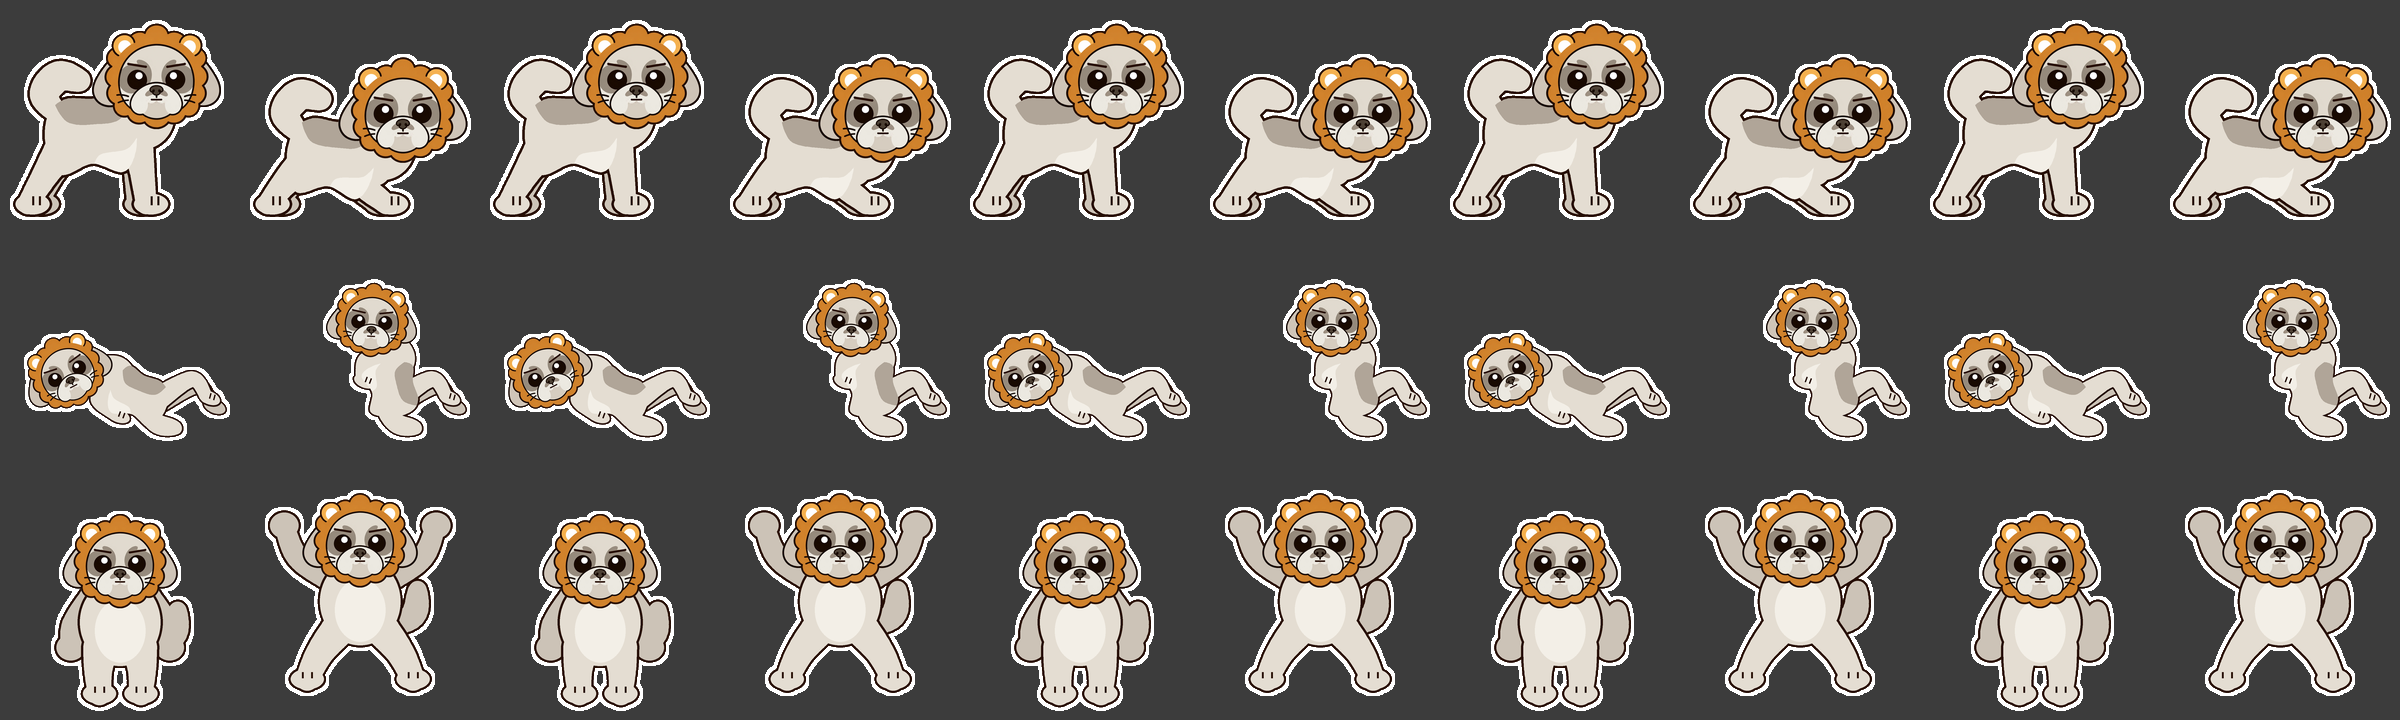
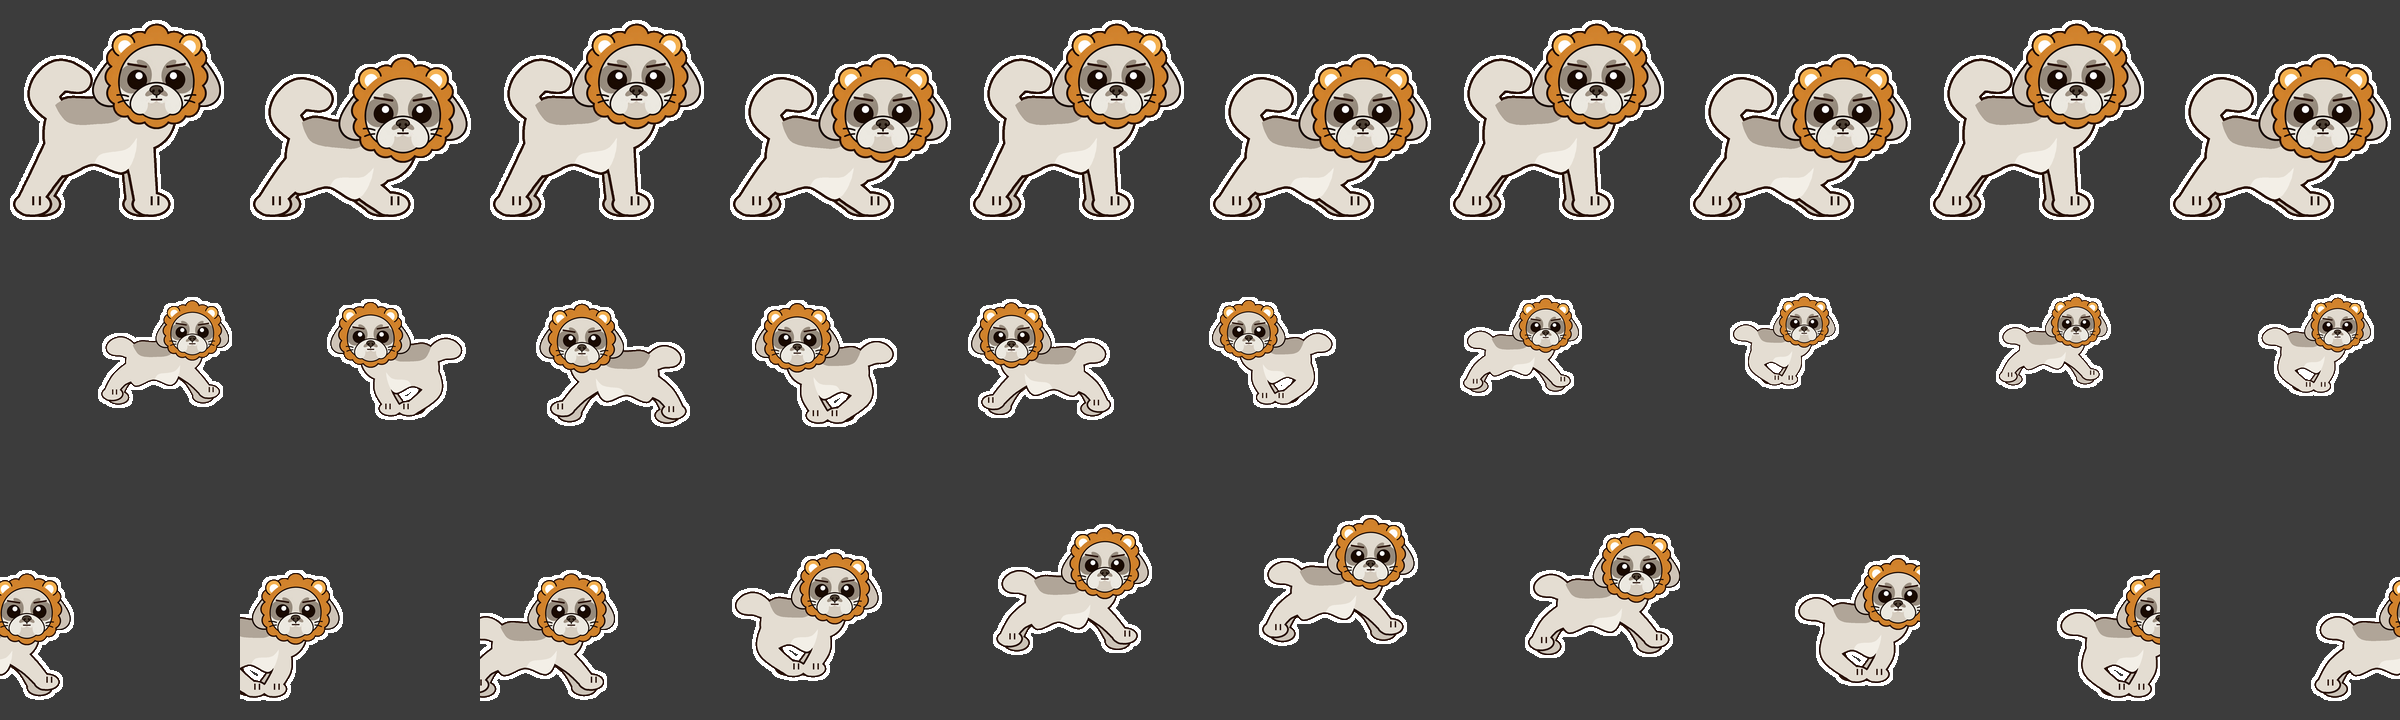
Replace sit-ups and jumping jacks with arc running and a running jump
Claude-Session: https://claude.ai/code/session_01KX3WDfyPkAofSs6dqvGAmw

diff --git a/.claude/skills/stamp-create/SKILL.md b/.claude/skills/stamp-create/SKILL.md
@@ -126,6 +126,9 @@ print(ms.verify("assets/gif/名前.gif"))                     # 検証
   - 斜め上から：**体だけ**を `Image.QUAD`（奥を狭く手前を広く）＋縦0.84倍＋-20度回転で変形し、頭の位置は目印の点を同じ変形にかけて求め、**顔は変形せずに**その位置へ乗せる（顔をゆがませない）
   - 正面から：胴体（胸）は丸い楕円＋明るい胸毛、前足2本は胸から真下へ太く、奥に後ろ足の太もも・後ろ足・しっぽを少し暗い色でまとめて描く。腰を落とすと胴体が下がり、太ももが両脇に大きく張り出して「おすわり」に見える。手前（胸＋前足）は1つの形にまとめて輪郭を1回だけ付ける
   - ジャンピングジャック（正面から）：後ろ足で立った犬。前足は胴体の**後ろ**に少し暗い色で描き（胴体との境目に線を作らない）、t=1 でジャンプ（体を90px上げる）しながら前足を斜め上へ広げ、後ろ足を左右に開く。胴体＋後ろ足は1つの形
+- **走る・移動する場面**：走る姿勢2つ（脚を前後に伸ばす／体の下に集める）を `dog_unified` で描いて**絵の部分だけ切り出し**、コマごとに位置・大きさ・左右の向きを変えて貼る。
+  - 弧を描いて走り回る（斜め上から）：楕円の道（横半径300・縦半径130）を10コマで1周。手前ほど大きく（0.8〜1.1倍）、進む向きに合わせて左右反転。切り抜きは全コマが入る範囲（`ms.auto_crop`）
+  - 左から走ってジャンプ（横から）：切り抜きは固定にして、左端から入って右へ抜ける（端で切れるのは意図どおり）。高さ `0,0,0,110,250,300,230,80,0,0`、ジャンプ中は脚を伸ばした姿勢。大きさは0.95倍（小さいと240pxで豆粒になる）
 - **すごく速く動く表現**（回数を増やして長さは変えないとき）：1回＝上・下の2コマ×150ms（1回0.3秒）。**汗やスピード線の効果は、ユーザーに頼まれたときだけ入れる**（筋トレスタンプでは「要らない」と言われた）。入れる場合は、動きがいちばん大きい部分（頭か腰）の横に、**体と反対側（外側）だけ**スピード線を3本、動いてきた側へ伸ばして描く（体の上から見えるように、体の後に描く）。汗のしずくをコマごとに位置を変えて飛ばす。前の姿勢を薄い色で重ねる「残像」は、GIFでは半透明にできず白いもやもやの塊になるので使わない。例：筋トレ各5回×3種目＝30コマ・4.5秒
 - GIF は表示時間を 10ms 単位でしか記録できない（125ms は 120ms になる）。合計秒数をきっちり合わせたいときは、130ms と 120ms を交互に並べるなど、10ms 単位の値で組む
 - **跳ねる（画像1枚）**：`sy:0.92, sx:1.05`（しゃがむ）→ `dy:-20`（跳ぶ）→ `dy:-28` → `dy:-20` → 着地 `sy:0.94` → 元に戻る
